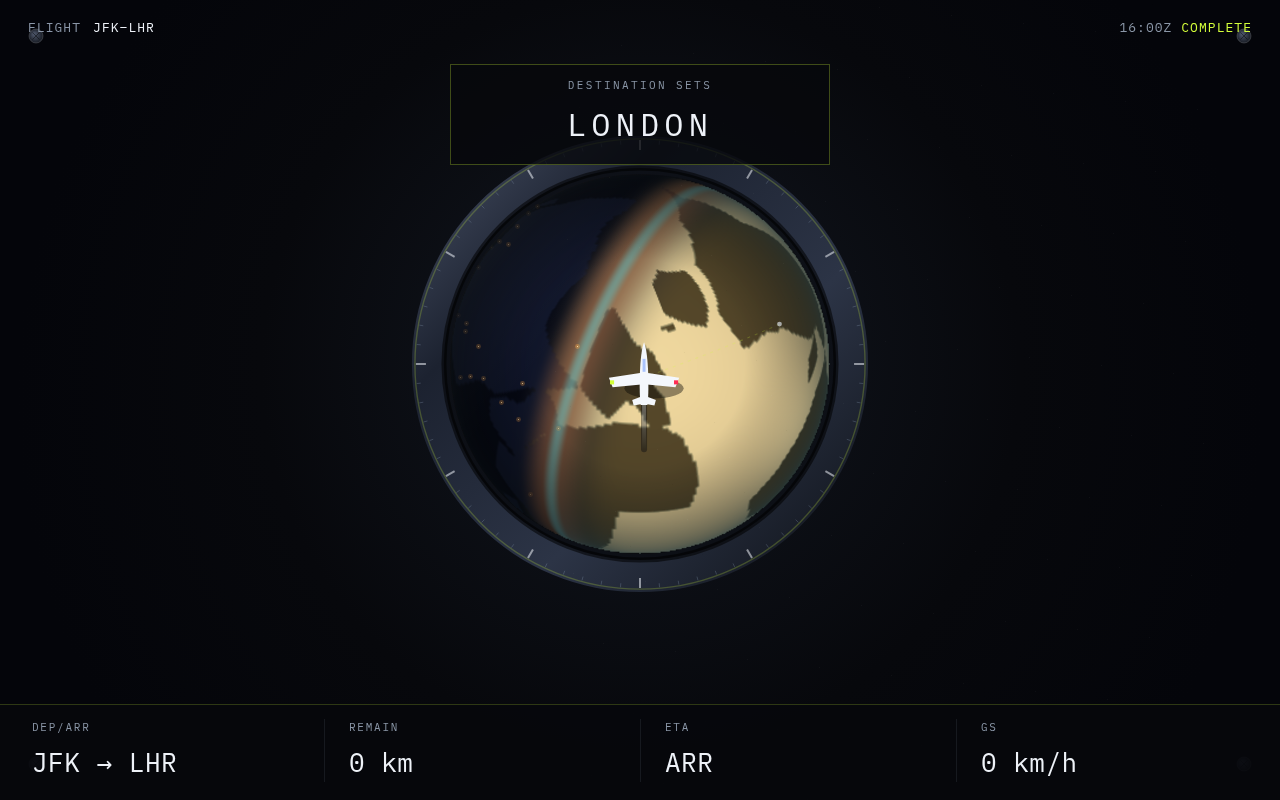
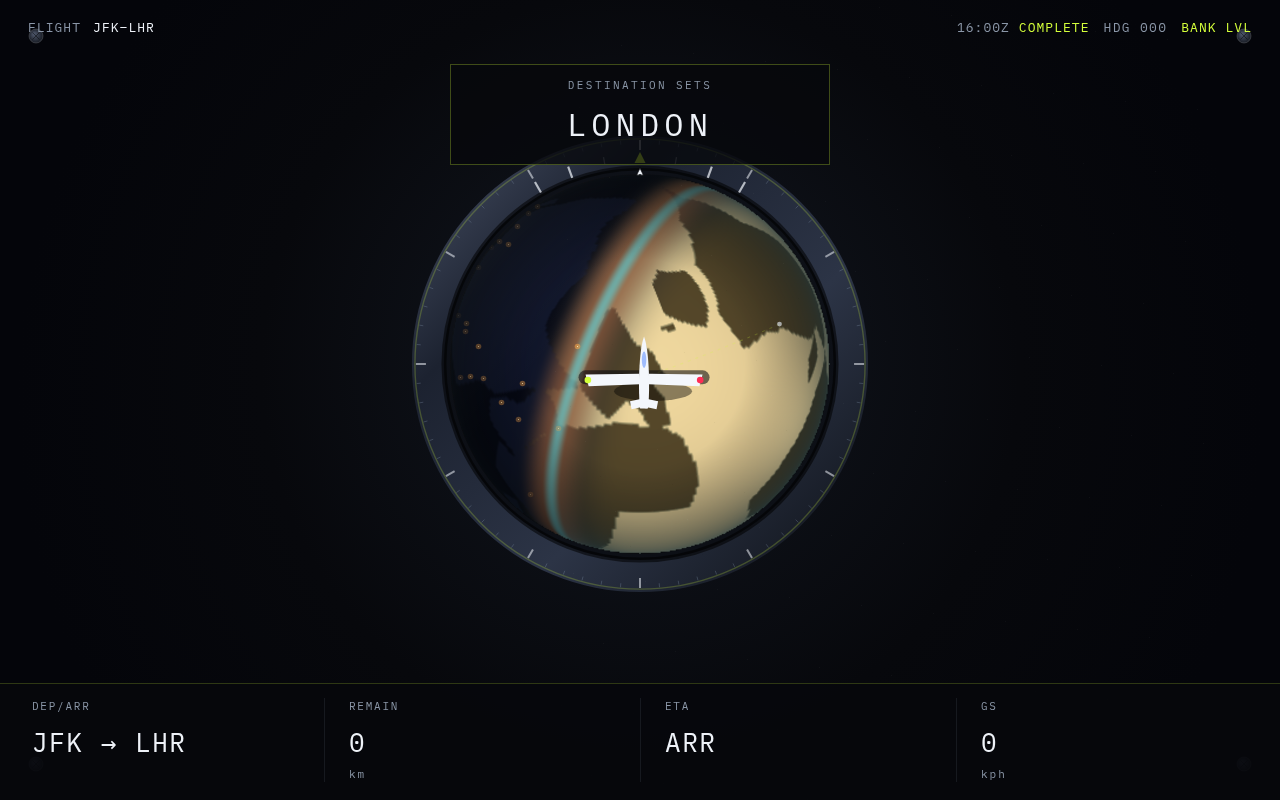
faces: Flight stills R3 — ribbon wake, grouped strip
Thicken the decaying screen-space contrail into a tapered ribbon, push
wing drop so 15°R is a silhouette, and print remain/GS as grouped
numbers with units on their own line.

diff --git a/src/renderer/src/features/faces/flight/draw.ts b/src/renderer/src/features/faces/flight/draw.ts
@@ -392,12 +392,12 @@ function drawBankScale(
 
   ctx.rotate(degToRad(bank));
   ctx.fillStyle = "#eef2f8";
-  ctx.strokeStyle = "rgba(7,8,12,0.55)";
-  ctx.lineWidth = 1;
+  ctx.strokeStyle = "rgba(7,8,12,0.7)";
+  ctx.lineWidth = 1.2;
   ctx.beginPath();
-  ctx.moveTo(0, -radius - 4);
-  ctx.lineTo(-8, -radius + 12);
-  ctx.lineTo(8, -radius + 12);
+  ctx.moveTo(0, -radius - 6);
+  ctx.lineTo(-10, -radius + 14);
+  ctx.lineTo(10, -radius + 14);
   ctx.closePath();
   ctx.fill();
   ctx.stroke();
@@ -625,32 +625,65 @@ function drawWake(
   const px = -uy;
   const py = ux;
   const widthScale = contrailWidthScale(model.phase);
-  const tail = model.phase === "climb" ? 128 : model.phase === "descent" ? 108 : 96;
-  const curve = degToRad(model.bank) * 18;
+  const tail = model.phase === "climb" ? 148 : model.phase === "descent" ? 124 : 118;
+  const curve = degToRad(model.bank) * 26;
+  const steps = 12;
+  const left: Array<{ x: number; y: number }> = [];
+  const right: Array<{ x: number; y: number }> = [];
+  const core: Array<{ x: number; y: number }> = [];
+  for (let i = 0; i <= steps; i += 1) {
+    const t = i / steps;
+    const life = 1 - t;
+    const x = here.x + ux * tail * t + px * curve * t * t;
+    const y = here.y + uy * tail * t + py * curve * t * t;
+    const half = (1.4 + life * 9.5) * Math.max(0.62, widthScale);
+    left.push({ x: x + px * half, y: y + py * half });
+    right.push({ x: x - px * half, y: y - py * half });
+    core.push({ x, y });
+  }
   ctx.save();
-  ctx.lineCap = "round";
   ctx.lineJoin = "round";
-  const steps = 9;
-  for (let i = 0; i < steps; i += 1) {
-    const t0 = i / steps;
-    const t1 = (i + 1) / steps;
-    const life0 = 1 - t0;
-    const life1 = 1 - t1;
-    const x0 = here.x + ux * tail * t0 + px * curve * t0 * t0;
-    const y0 = here.y + uy * tail * t0 + py * curve * t0 * t0;
-    const x1 = here.x + ux * tail * t1 + px * curve * t1 * t1;
-    const y1 = here.y + uy * tail * t1 + py * curve * t1 * t1;
-    ctx.strokeStyle = `rgba(8, 10, 16, ${(0.18 + life0 * 0.34).toFixed(3)})`;
-    ctx.lineWidth = (3.2 + life0 * 11) * Math.max(0.5, widthScale);
-    ctx.beginPath();
-    ctx.moveTo(x0, y0);
-    ctx.lineTo(x1, y1);
-    ctx.stroke();
-    ctx.strokeStyle = `rgba(236, 246, 255, ${(0.16 + life0 * 0.7 * Math.max(0.55, widthScale)).toFixed(3)})`;
-    ctx.lineWidth = (1.1 + life1 * 5.4) * Math.max(0.5, widthScale);
-    ctx.beginPath();
-    ctx.moveTo(x0, y0);
-    ctx.lineTo(x1, y1);
+  ctx.lineCap = "round";
+  ctx.beginPath();
+  const firstLeft = left[0];
+  if (!firstLeft) {
+    ctx.restore();
+    return;
+  }
+  ctx.moveTo(firstLeft.x, firstLeft.y);
+  for (const p of left) ctx.lineTo(p.x, p.y);
+  for (let i = right.length - 1; i >= 0; i -= 1) {
+    const p = right[i];
+    if (p) ctx.lineTo(p.x, p.y);
+  }
+  ctx.closePath();
+  const fade = ctx.createLinearGradient(
+    here.x,
+    here.y,
+    here.x + ux * tail,
+    here.y + uy * tail,
+  );
+  fade.addColorStop(0, "rgba(12, 10, 8, 0.72)");
+  fade.addColorStop(0.45, "rgba(12, 10, 8, 0.32)");
+  fade.addColorStop(1, "rgba(12, 10, 8, 0)");
+  ctx.fillStyle = fade;
+  ctx.fill();
+
+  ctx.beginPath();
+  const firstCore = core[0];
+  if (firstCore) {
+    ctx.moveTo(firstCore.x, firstCore.y);
+    for (const p of core) ctx.lineTo(p.x, p.y);
+    const coreFade = ctx.createLinearGradient(
+      here.x,
+      here.y,
+      here.x + ux * tail,
+      here.y + uy * tail,
+    );
+    coreFade.addColorStop(0, `rgba(236, 246, 255, ${0.92 * Math.max(0.55, widthScale)})`);
+    coreFade.addColorStop(1, "rgba(236, 246, 255, 0)");
+    ctx.strokeStyle = coreFade;
+    ctx.lineWidth = 3.2 * Math.max(0.55, widthScale);
     ctx.stroke();
   }
   ctx.restore();

diff --git a/src/renderer/src/features/faces/flight/FlightFace.tsx b/src/renderer/src/features/faces/flight/FlightFace.tsx
@@ -5,8 +5,8 @@ import "./flight.css";
 import {
   formatBank,
   formatClockHm,
+  formatGrouped,
   formatHdg,
-  formatInt,
   formatZulu,
 } from "./math";
 import { buildFlightModel } from "./model";
@@ -101,9 +101,9 @@ export function FlightFace(props: FlightFaceViewProps): JSX.Element {
 
   const model = buildFlightModel(props, props.idleOverride);
   const variant = props.variant ?? "instrument";
-  const remain = model.complete ? "0" : formatInt(model.remainKm);
+  const remain = model.complete ? "0" : formatGrouped(model.remainKm);
   const eta = model.complete ? "ARR" : formatClockHm(model.eta);
-  const gs = model.complete ? "0" : formatInt(model.gsKmh);
+  const gs = model.complete ? "0" : formatGrouped(model.gsKmh);
   const label = model.complete
     ? `Flight complete. Destination ${model.arr.name}.`
     : `Flight ${model.dep.code} to ${model.arr.code}. ${remain} km remaining. ETA ${eta}. ${gs} kph. ${model.phase}.`;
@@ -148,16 +148,22 @@ export function FlightFace(props: FlightFaceViewProps): JSX.Element {
             </b>
           </div>
           <div>
-            <span>REMAIN KM</span>
-            <b>{remain}</b>
+            <span>REMAIN</span>
+            <b>
+              {remain}
+              <small>km</small>
+            </b>
           </div>
           <div>
             <span>ETA</span>
             <b>{eta}</b>
           </div>
           <div>
-            <span>GS KPH</span>
-            <b>{gs}</b>
+            <span>GS</span>
+            <b>
+              {gs}
+              <small>kph</small>
+            </b>
           </div>
         </div>
       ) : null}

diff --git a/src/renderer/src/features/faces/flight/math.ts b/src/renderer/src/features/faces/flight/math.ts
@@ -316,6 +316,13 @@ export function formatInt(value: number): string {
   return String(Math.round(Math.max(0, value)));
 }
 
+export function formatGrouped(value: number): string {
+  if (!Number.isFinite(value)) {
+    throw new Error("formatGrouped requires a finite value");
+  }
+  return Math.round(Math.max(0, value)).toLocaleString("en-US");
+}
+
 export function formatBank(bank: number): string {
   if (!Number.isFinite(bank)) {
     throw new Error("formatBank requires a finite value");
@@ -359,7 +366,7 @@ export function wingAttitude(bank: number, span: number): WingAttitude {
   const limited = clamp(bank, -MAX_BANK_DEG, MAX_BANK_DEG);
   const rad = degToRad(limited);
   const signed = limited === 0 ? 0 : limited > 0 ? 1 : -1;
-  const drop = Math.sin(rad) * span * 0.98 + signed * Math.min(12, span * 0.38);
+  const drop = Math.sin(rad) * span * 1.2 + signed * Math.min(16, span * 0.52);
   return {
     leftY: -drop,
     rightY: drop,

diff --git a/src/renderer/src/features/faces/flight/math.test.ts b/src/renderer/src/features/faces/flight/math.test.ts
@@ -7,8 +7,8 @@ import {
   flightProgress,
   formatBank,
   formatClockHm,
+  formatGrouped,
   formatHdg,
-  formatInt,
   formatZulu,
   greatCirclePoint,
   groundSpeedKmh,
@@ -121,7 +121,8 @@ describe("progress, phases, honest strip math", () => {
     expect(formatBank(-4.4)).toBe("4°L");
     expect(formatBank(0.2)).toBe("LVL");
     expect(formatHdg(72.9)).toBe("073");
-    expect(formatInt(791.4)).toBe("791");
+    expect(formatGrouped(791.4)).toBe("791");
+    expect(formatGrouped(2992.2)).toBe("2,992");
   });
 
   it("rolls wing tips vertically so bank is a silhouette, not extra yaw", () => {

diff --git a/src/renderer/src/features/faces/flight/flight.css b/src/renderer/src/features/faces/flight/flight.css
@@ -118,5 +118,14 @@
   font-size: 26px;
   font-weight: 400;
   color: #eef2f8;
-  letter-spacing: 0.02em;
+  letter-spacing: 0.06em;
+}
+
+.fp-flight-strip small {
+  display: block;
+  margin-left: 0;
+  margin-top: 4px;
+  font-size: 11px;
+  letter-spacing: 0.18em;
+  color: #8b97a8;
 }
